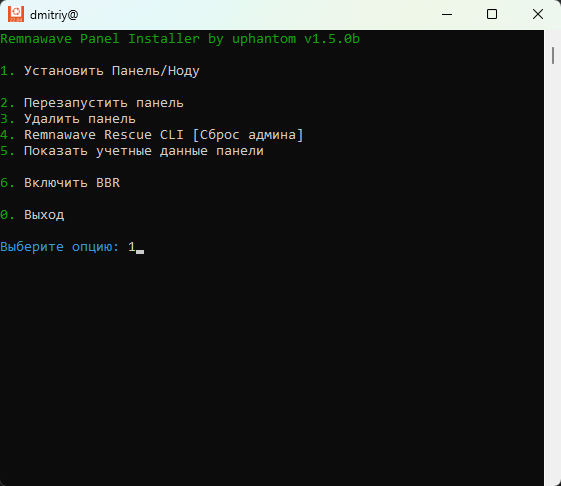
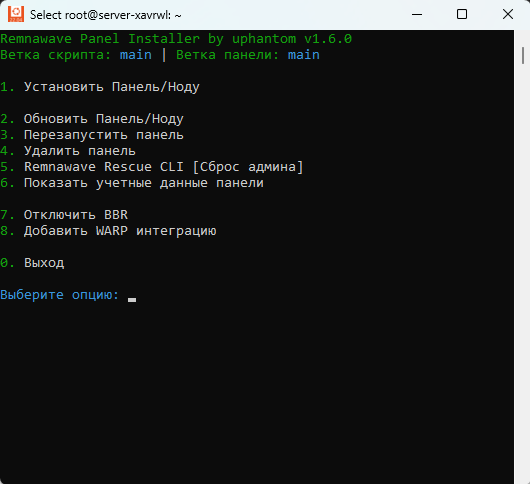
docs:  up readme and menu screenshots, add WARP and update panel description

diff --git a/README.ru.md b/README.ru.md
@@ -6,7 +6,7 @@
 
 Этот Bash-скрипт предназначен для **автоматизированной установки и первоначальной настройки компонентов Remnawave** (Panel, Node, Subscription-Page) и их окружения (Docker, Caddy, UFW). Скрипт упрощает развертывание, помогает изучить результат и научиться разворачивать панель самому вручную.
 
-> [!CAUTION] 
+> [!CAUTION]
 > **ВНИМАНИЕ!** Данный скрипт и репозиторий предоставляются как **образовательный пример** для изучения взаимодействия Caddy и панели Remnawave, а также для демонстрации конфигурации Caddy в качестве обратного прокси. **Скрипт не предназначен для использования в производственной среде без полного понимания его действий и конфигураций Remnawave.** Если вы не понимаете, как работает панель управления Remnawave или создаваемые скриптом конфигурации, это ваша ответственность. **ИСПОЛЬЗУЙТЕ НА СВОЙ СТРАХ И РИСК!**
 
 ---
@@ -33,6 +33,8 @@
 - [Важная информация, генерируемая скриптом](#-важная-информация-генерируемая-скриптом)
 - [Структура директорий, создаваемая скриптом](#-структура-директорий-создаваемая-скриптом)
 - [Управление сервисами после установки](#-управление-сервисами-после-установки)
+- [Система обновлений](#-система-обновлений)
+- [Интеграция WARP](#-интеграция-warp)
 - [Официальные ресурсы Remnawave](#-официальные-ресурсы-remnawave)
 - [Замечания и известные проблемы](#-замечания-и-известные-проблемы)
 
@@ -81,6 +83,8 @@
   - `Makefile` для простого управления Docker-контейнерами.
 - **Первоначальная инициализация Remnawave**: Регистрация админа, ноды, пользователя.
 - **Управление установкой**: Перезапуск, полное удаление (с данными), доступ к Remnawave Rescue CLI.
+- **Система обновлений**: Комплексная функциональность обновления компонентов Remnawave с умным определением Docker образов.
+- **Интеграция WARP**: Простая настройка Cloudflare WARP с возможностью кастомизации доменов.
 - **Отображение и сохранение учетных данных**: Все важные данные сохраняются в `/opt/remnawave/credentials.txt`.
 - **Управление BBR**: Включение/отключение BBR.
 - **Генерация QR-кода**: Для URL подписки при установке в сценарии All-in-One (Панель + Нода)
@@ -140,11 +144,13 @@ sudo bash -c "$(curl -sL https://raw.githubusercontent.com/xxphantom/remnawave-i
 Скрипт поддерживает дополнительные параметры для контроля версий компонентов:
 
 **Использование dev версии Remnawave:**
+
 ```bash
 sudo bash -c "$(curl -sL https://raw.githubusercontent.com/xxphantom/remnawave-installer/refs/heads/main/install.sh)" @ --lang=ru --panel-branch=dev
 ```
 
 **Использование dev версии скрипта и Remnawave:**
+
 ```bash
 sudo bash -c "$(curl -sL https://raw.githubusercontent.com/xxphantom/remnawave-installer/refs/heads/main/install.sh)" @ --lang=ru --panel-branch=dev --installer-branch=dev
 ```
@@ -231,22 +237,11 @@ sudo bash -c "$(curl -sL https://raw.githubusercontent.com/xxphantom/remnawave-i
 
 ### Главное меню
 
-1.  **Установить Панель/Ноду**: Переход в меню выбора компонентов для установки.
-2.  **Перезапустить панель**: Останавливает и запускает контейнеры Remnawave Panel и Subscription Page (и Caddy, если он управляется из основной директории панели).
-3.  **Удалить панель**: Полностью удаляет установку Remnawave (включая Docker-вольюмы с данными!) с сервера. **Используйте с осторожностью!**
-4.  **Remnawave Rescue CLI [Сброс админа]**: Запускает CLI внутри контейнера Remnawave Panel, что позволяет, например, сбросить пароль администратора панели.
-5.  **Показать учетные данные панели**: Отображает содержимое файла `/opt/remnawave/credentials.txt`.
-6.  **Включить/Отключить BBR**: Управляет настройками TCP BBR.
-7.  **Выход**: Завершение работы скрипта.
+Главное меню предоставляет доступ ко всем функциям установщика. Пункты меню видны на скриншоте выше.
 
 ### Меню установки
 
-- **Только панель**:
-  1.  `"FULL Caddy" вариант установки панели (рекомендуется)`
-  2.  `"SIMPLE cookie" вариант установки панели`
-- **Только нода**: 3. `Только нода (для отдельного сервера)`
-- **All-in-One**: 4. `Панель + Нода "FULL Caddy" вариант` 5. `Панель + Нода "SIMPLE cookie" вариант`
-- **Назад в главное меню**
+Меню установки предлагает различные сценарии развертывания компонентов Remnawave.
 
 ---
 
@@ -296,6 +291,18 @@ make stop     # Остановить сервисы
 make restart  # Перезапустить сервисы
 make logs     # Показать логи запущенных сервисов
 ```
+
+---
+
+## 🔄 Система обновлений
+
+Умная система обновления компонентов Remnawave с определением Docker образов. Перезапускает только сервисы с фактическими обновлениями, включает автоматическую очистку неиспользуемых образов.
+
+---
+
+## 🌐 Интеграция WARP
+
+Простая интеграция с Cloudflare WARP для направления трафика через сеть Cloudflare. Автоматизированная настройка. Не требует отдельной настройки каждой ноды - конфиг Xray передается на ноды и ядро Xray обеспечивает соединение с Cloudflare.
 
 ---
 

diff --git a/README.md b/README.md
@@ -6,7 +6,7 @@
 
 This Bash script is designed for **automated installation and initial configuration of Remnawave components** (Panel, Node, Subscription-Page) and their environment (Docker, Caddy, UFW). The script simplifies deployment, helps to study the result and learn how to deploy the panel manually.
 
-> [!CAUTION]
+> [!CAUTION] 
 > **WARNING!** This script and repository are provided as an **educational example** for studying the interaction between Caddy and Remnawave panel, as well as for demonstrating Caddy configuration as a reverse proxy. **The script is not intended for production use without full understanding of its actions and Remnawave configurations.** If you don't understand how the Remnawave management panel works or the configurations created by the script, it's your responsibility. **USE AT YOUR OWN RISK!**
 
 ---
@@ -33,6 +33,8 @@ This Bash script is designed for **automated installation and initial configurat
 - [Important information generated by the script](#-important-information-generated-by-the-script)
 - [Directory structure created by the script](#-directory-structure-created-by-the-script)
 - [Managing services after installation](#-managing-services-after-installation)
+- [Update System](#-update-system)
+- [WARP Integration](#-warp-integration)
 - [Official Remnawave resources](#-official-remnawave-resources)
 - [Notes and known issues](#-notes-and-known-issues)
 
@@ -81,6 +83,8 @@ This script **is not a replacement for the Remnawave panel**. It **automates the
   - `Makefile` for simple Docker container management.
 - **Initial Remnawave initialization**: Admin, node, and user registration.
 - **Installation management**: Restart, complete removal (with data), access to Remnawave Rescue CLI.
+- **Update system**: Comprehensive update functionality for Remnawave components with smart Docker image detection.
+- **WARP integration**: Easy setup of Cloudflare WARP with domain customization options.
 - **Display and save credentials**: All important data is saved to `/opt/remnawave/credentials.txt`.
 - **BBR management**: Enable/disable BBR.
 - **QR code generation**: For subscription URL when installing in All-in-One scenario (Panel + Node).
@@ -233,22 +237,11 @@ After launch, the script will display the main menu. Language selection is done 
 
 ### Main menu
 
-1.  **Install Panel/Node**: Go to the component selection menu for installation.
-2.  **Restart panel**: Stops and starts Remnawave Panel and Subscription Page containers (and Caddy if managed from the main panel directory).
-3.  **Remove panel**: Completely removes Remnawave installation (including Docker volumes with data!) from the server. **Use with caution!**
-4.  **Remnawave Rescue CLI [Admin reset]**: Runs CLI inside the Remnawave Panel container, allowing you to, for example, reset the panel administrator password.
-5.  **Show panel credentials**: Displays the contents of the `/opt/remnawave/credentials.txt` file.
-6.  **Enable/Disable BBR**: Manages TCP BBR settings.
-7.  **Exit**: Exit the script.
+The main menu provides access to all installer functions. Menu options are visible in the screenshot above.
 
 ### Installation menu
 
-- **Panel only**:
-  1.  `"FULL Caddy" panel installation option (recommended)`
-  2.  `"SIMPLE cookie" panel installation option`
-- **Node only**: 3. `Node only (for separate server)`
-- **All-in-One**: 4. `Panel + Node "FULL Caddy" option` 5. `Panel + Node "SIMPLE cookie" option`
-- **Back to main menu**
+The installation menu offers different deployment scenarios for Remnawave components.
 
 ---
 
@@ -298,6 +291,18 @@ make stop     # Stop services
 make restart  # Restart services
 make logs     # Show logs of running services
 ```
+
+---
+
+## 🔄 Update System
+
+Smart update system for Remnawave components with Docker image detection. Only restarts services with actual updates, includes automatic cleanup of unused images.
+
+---
+
+## 🌐 WARP Integration
+
+Easy integration with Cloudflare WARP for routing traffic through Cloudflare's network. Automated setup. No separate node configuration required - Xray config is transmitted to nodes and Xray core handles Cloudflare connections.
 
 ---
 
